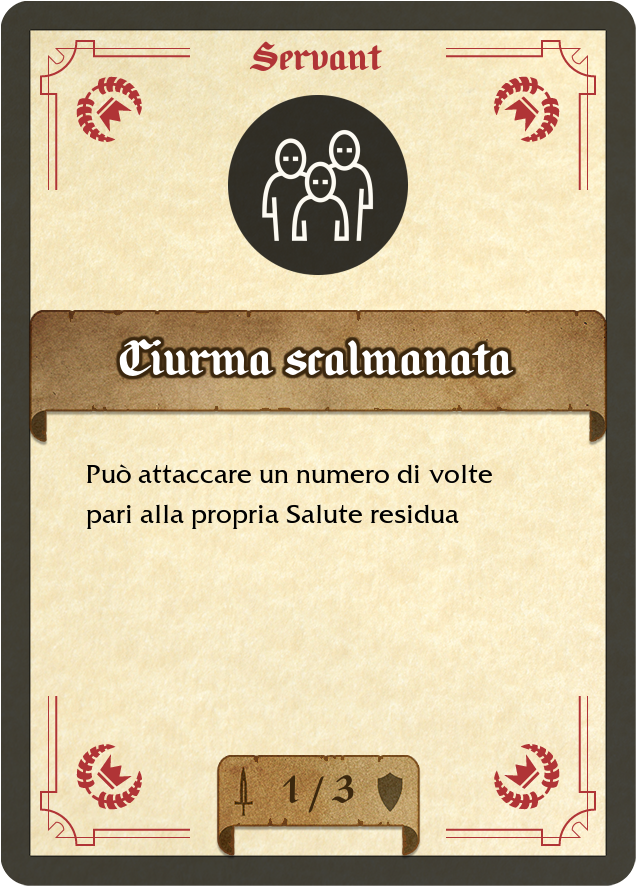
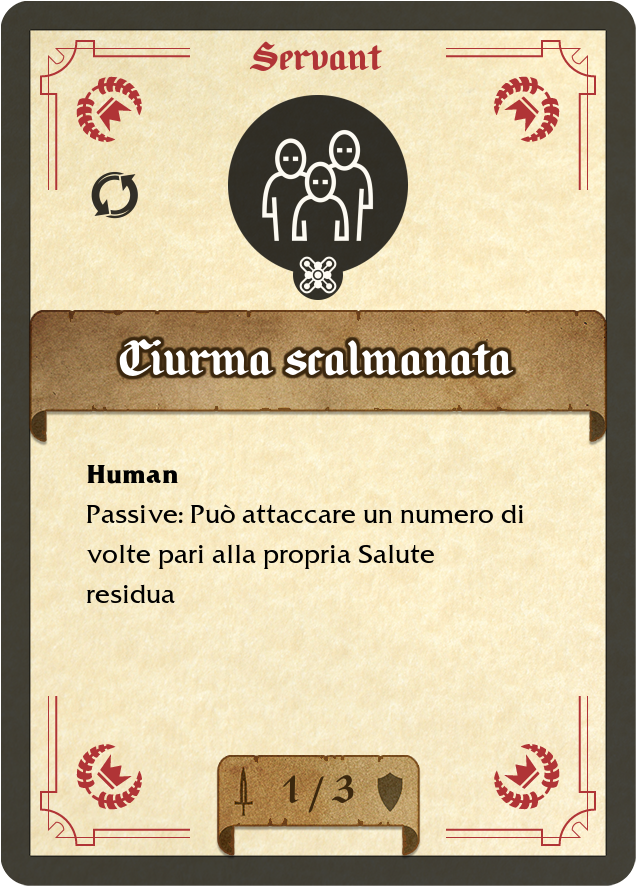
Card triggers/properties + remove card preview after edit

Changed region(s): [[0.1195, 0.5181, 0.8365, 0.7009], [0.1195, 0.1828, 0.239, 0.2438], [0.4481, 0.2743, 0.5377, 0.3352]]

diff --git a/resources/css/style.css b/resources/css/style.css
@@ -543,7 +543,7 @@ h1, h2, h3, h4, h5, h6 {
         float: left;
         width: 168px;
         margin-right: 20px;
-        height: 234px;
+        height: 240px;
         height: 0;
         margin-bottom: 20px; }
         .combo-list .new-combo__top__left .added-cards-row .added-card img {
@@ -559,7 +559,7 @@ h1, h2, h3, h4, h5, h6 {
           padding-top: 20px;
           padding-left: 20px;
           padding-right: 20px;
-          height: 234px;
+          height: 240px;
           border: 3px dashed black;
           border-radius: 10px;
           position: relative; }
@@ -633,7 +633,7 @@ h1, h2, h3, h4, h5, h6 {
           float: left;
           width: 168px;
           margin-right: 20px;
-          height: 234px;
+          height: 240px;
           margin-bottom: 20px; }
           .combo-list .edit-combo__top__left .added-cards-row .added-card img {
             width: 100%; }
@@ -648,7 +648,7 @@ h1, h2, h3, h4, h5, h6 {
             padding-top: 20px;
             padding-left: 20px;
             padding-right: 20px;
-            height: 234px;
+            height: 240px;
             border: 3px dashed black;
             border-radius: 10px;
             position: relative; }

diff --git a/resources/css/style.scss b/resources/css/style.scss
@@ -670,7 +670,7 @@ h1,h2,h3,h4,h5,h6{
 						//width: calc(33.333% - 20px);
 						width:168px;
 						margin-right: 20px;
-						height:234px;
+						height:240px;
     					height: 0;
     					margin-bottom:20px;
 						img{
@@ -688,7 +688,7 @@ h1,h2,h3,h4,h5,h6{
 							padding-top:20px;
 							padding-left:20px;
 							padding-right:20px;
-							height:234px;
+							height:240px;
 							border: 3px dashed black;
 							border-radius: 10px;
 							position:relative;
@@ -782,7 +782,7 @@ h1,h2,h3,h4,h5,h6{
 						float:left;
 						width:168px;
 						margin-right: 20px;
-    					height:234px;
+    					height:240px;
     					margin-bottom:20px;
 						img{
 							width:100%;
@@ -799,7 +799,7 @@ h1,h2,h3,h4,h5,h6{
 							padding-top:20px;
 							padding-left:20px;
 							padding-right:20px;
-							height:234px;
+							height:240px;
 							border: 3px dashed black;
 							border-radius: 10px;
 							position:relative;

diff --git a/resources/js/script.js b/resources/js/script.js
@@ -255,6 +255,7 @@ cardMaster.collection.sendChangeRequest = function(form){
 			}
 			else{
 				cardMaster.collection.resetCardForm();
+				cardMaster.collection.removeCardPreview();
 				cardMaster.collection.loadCards(cardMaster.collection.renderCardList);
 				cardMaster.showMessage(res, "confirm");
 				cardMaster.editMode = false;
@@ -780,6 +781,12 @@ cardMaster.collection.renderCard = function(selRow){
 		})
 	});
 };
+
+cardMaster.collection.removeCardPreview = function(){
+	var $selector = $("#updateCard");
+	var $image = $selector.parent().find(".card_render");
+	$image.prop("src", "");
+}
 
 cardMaster.combos.loadComboList = function(callback){
 

diff --git a/resources/php_scripts/generateCardImage.php b/resources/php_scripts/generateCardImage.php
@@ -259,7 +259,67 @@
 					$card->insert($imageLayer, 'top-left', 0,0);
 
 					//add triggers
+					$cardText = stripslashes($row->description);
+					$cardText = explode("|", $cardText);
+
+					if(count($cardText)>1){
+						$checkCardText = $cardText[1];
+					}
+					else{
+						$checkCardText = $cardText[0];
+					}
+
+					$extraSymbolsOffsetX = 90;
+					$baseExtraSymbolsOffsetY = 170;
+
+					$triggerSymbols=array(
+						"active"=>array("path"=>"active.svg","selector"=>"Active:"),
+						"destruction"=>array("path"=>"destruction.svg","selector"=>"Destruction:"),
+						"end"=>array("path"=>"end.svg","selector"=>"Duel end:"),
+						"passive"=>array("path"=>"passive.svg","selector"=>"Passive:"),
+						"preparation"=>array("path"=>"preparation.svg","selector"=>"Preparation:"),
+						"reaction"=>array("path"=>"reaction.svg","selector"=>"Reaction:"),
+						"start"=>array("path"=>"start.svg","selector"=>"Duel start:"),
+						"summon"=>array("path"=>"summon.svg","selector"=>"Summon:")
+					);
+					$addedExtraSymbols = 0;
+					foreach ($triggerSymbols as $key => $t_symbol) {
+						$checkSelector = $t_symbol["selector"];
+						if(strpos($checkCardText, $checkSelector) !== false){
+							$extraSymbolPath = $mainPath.'/resources/img/card_parts/triggers/'.$t_symbol["path"];
+							$extraSymbol = $manager->make($extraSymbolPath)->resize(50,50);
+							$extraSymbolRowOffset = $extraSymbol->height() + 20;
+							$extraSymbol->opacity(80);
+							$extraSymbolOffsetY = $baseExtraSymbolsOffsetY + $extraSymbolRowOffset * $addedExtraSymbols;
+							$card->insert($extraSymbol, 'top-left' , $extraSymbolsOffsetX, $extraSymbolOffsetY);
+							$addedExtraSymbols++;
+						}
+					}
 					//add proprieties
+					$propertySymbols=array(
+						"bound"=>array("path"=>"bound.svg","selector"=>"Bound."),
+						"defender"=>array("path"=>"defender.svg","selector"=>"Defender."),
+						"fear"=>array("path"=>"fear.svg","selector"=>"Fear."),
+						"indestructible"=>array("path"=>"indestructible.svg","selector"=>"Indestructible."),
+						"lethal"=>array("path"=>"lethal.svg","selector"=>"Lethal."),
+						"persistent"=>array("path"=>"persistent.svg","selector"=>"Persistent."),
+						"quick"=>array("path"=>"quick.svg","selector"=>"Quick."),
+						"untargettable"=>array("path"=>"untargettable.svg","selector"=>"Untargettable.")
+					);
+					$addedExtraSymbols = 0;
+					foreach ($propertySymbols as $key => $p_symbol) {
+						$checkSelector = $p_symbol["selector"];
+						echo "x";
+						if(strpos($checkCardText, $checkSelector) !== false){
+							$extraSymbolPath = $mainPath.'/resources/img/card_parts/properties/'.$p_symbol["path"];
+							$extraSymbol = $manager->make($extraSymbolPath)->resize(50,50);
+							$extraSymbolRowOffset = $extraSymbol->height() + 20;
+							$extraSymbol->opacity(80);
+							$extraSymbolOffsetY = $baseExtraSymbolsOffsetY + $extraSymbolRowOffset * $addedExtraSymbols;
+							$card->insert($extraSymbol, 'top-right' , $extraSymbolsOffsetX, $extraSymbolOffsetY);
+							$addedExtraSymbols++;
+						}
+					}
 
 					//servant/champion values
 
